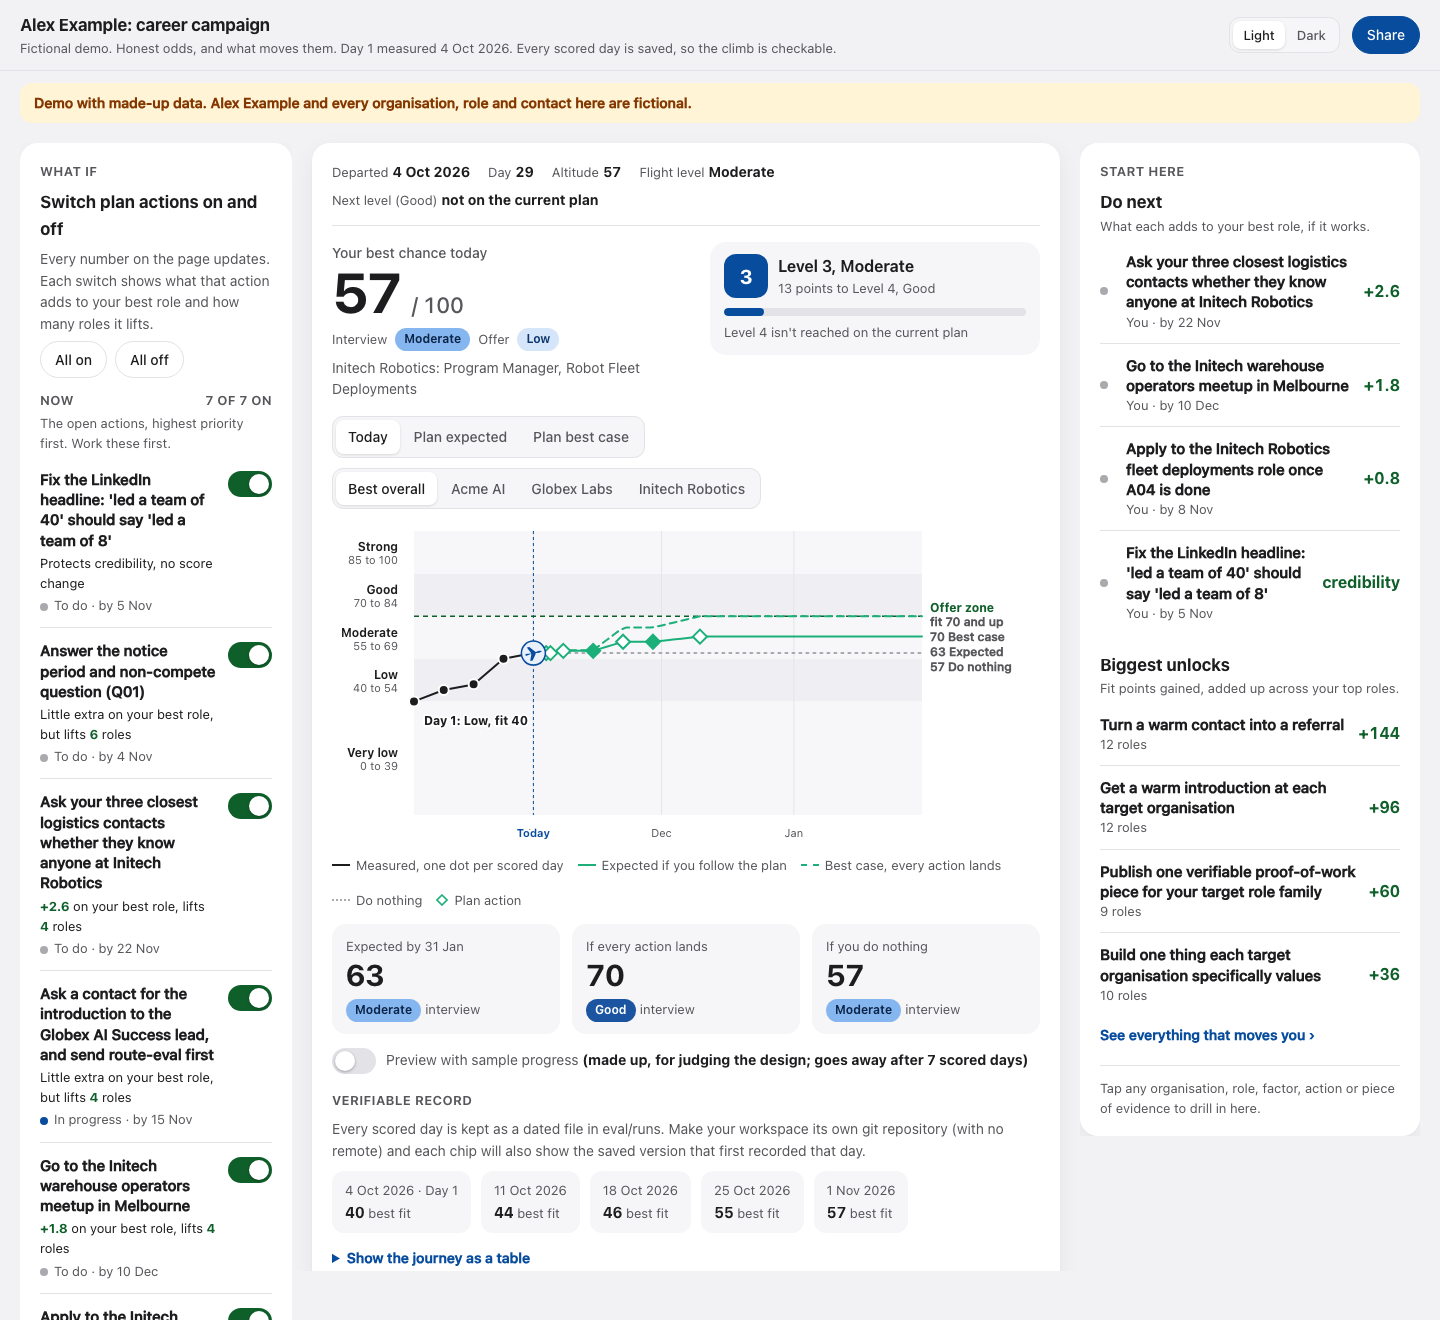
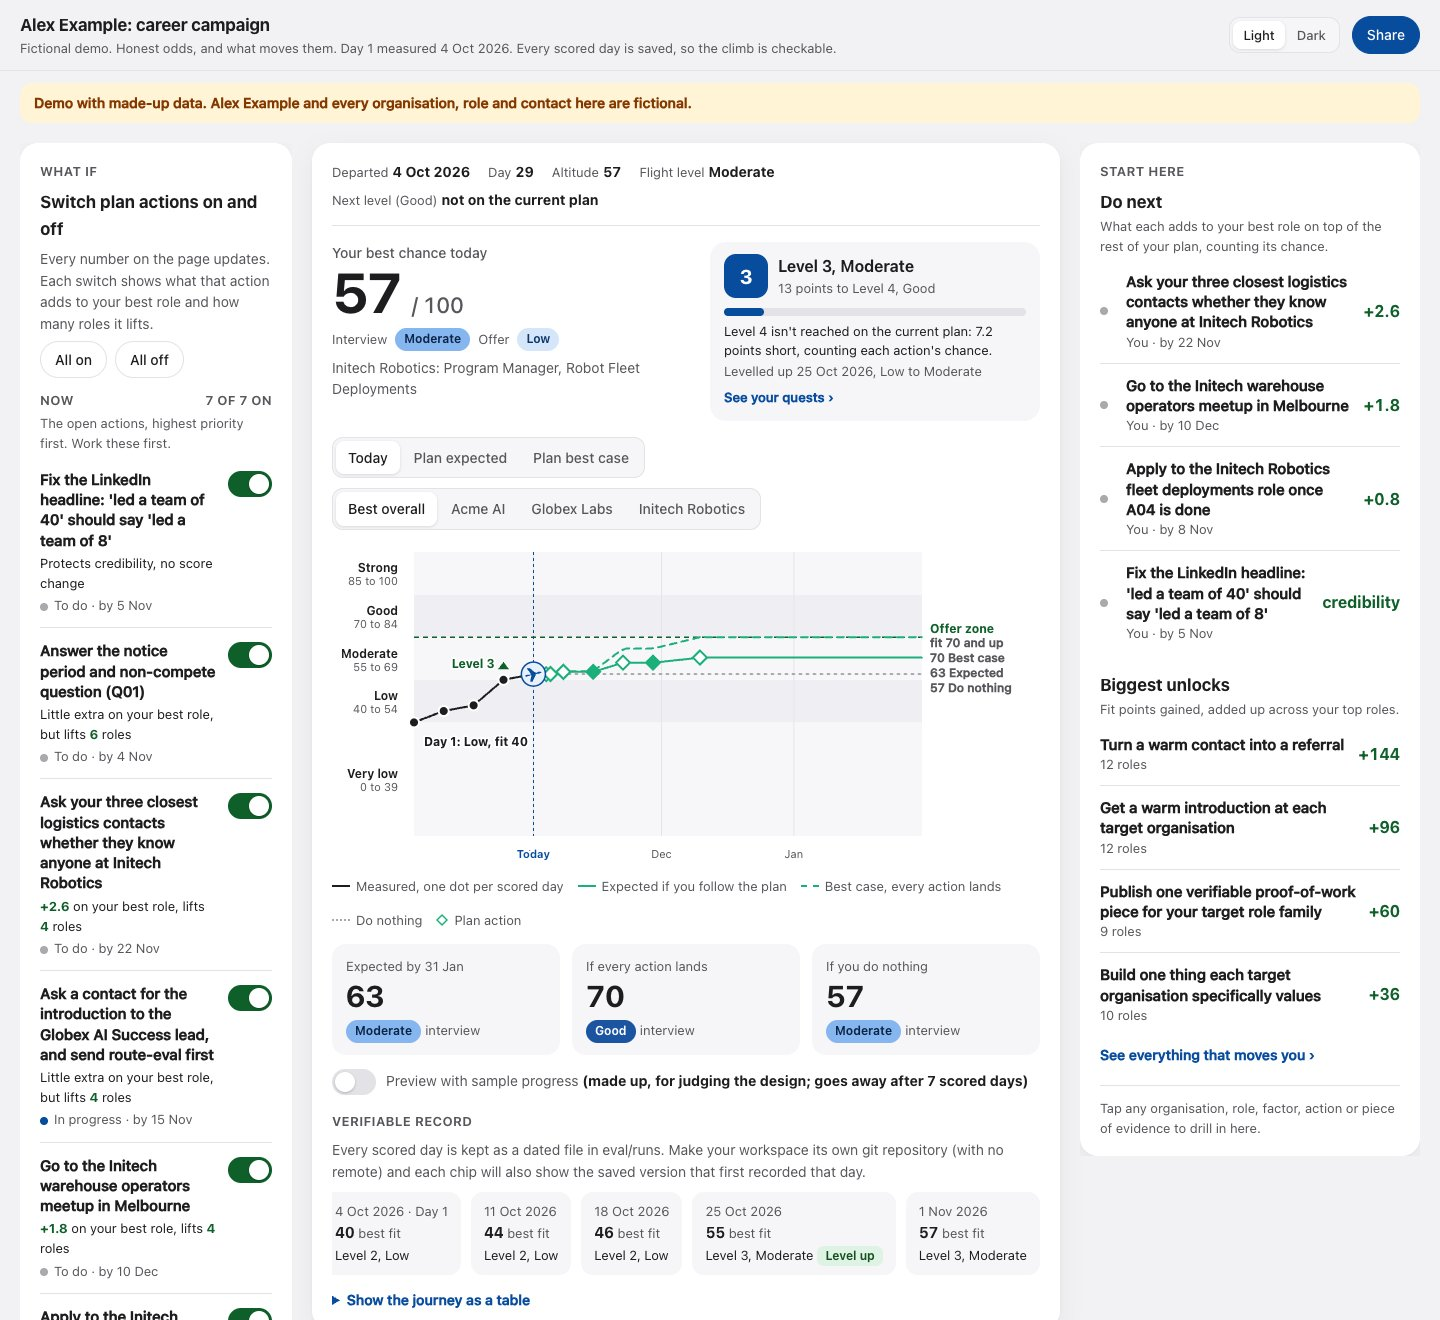
Refresh the demo dashboard screenshots; drop author-only wording

diff --git a/scripts/build_dashboard.py b/scripts/build_dashboard.py
@@ -1,5 +1,5 @@
 #!/usr/bin/env python3
-"""Build the dashboard ("Mission control") and the agent briefing from the scored runs.
+"""Build the dashboard and the agent briefing from the scored runs.
 
 Writes
   report/index.html                 the dashboard, one self-contained page

diff --git a/docs/LEVELS.md b/docs/LEVELS.md
@@ -1,7 +1,7 @@
 # Levels: what gets you to the next one
 
-Status: added 2026-11-02. The same day, the next level and the quest points moved onto one
-yardstick, the best fit across your roles (see "One yardstick" below). Code:
+The next level and the quest points use one yardstick, the best fit across your roles (see
+"One yardstick" below). Code:
 `scripts/_levels.py` (the maths), `scripts/_levels_html.py` (the first render of the view)
 and the `JS_LEVELS` block in `scripts/_dashboard_assets.py` (the same maths in the page, so
 the switches can change it). Tests: `tests/test_levels.py`, and `tests/test_levels_page.py`,
@@ -24,7 +24,7 @@ game score: every number is a fit point from the rubric or an effect from the pl
      result of the plan and the best case marked, then the verdict (below).
   2. *Quests*: every open plan action as a card.
   3. *Progress you can trust*: the streak and the level history.
-- **The verifiable record** chips under the chart now show each scored day's level, with a
+- **The verifiable record** chips under the chart show each scored day's level, with a
   "Level up" or "Level down" tag when it changed, and the chart marks those days with a
   small triangle.
 - **The action pane** (tap any action) has the same "Done? Tell your agent" button.
